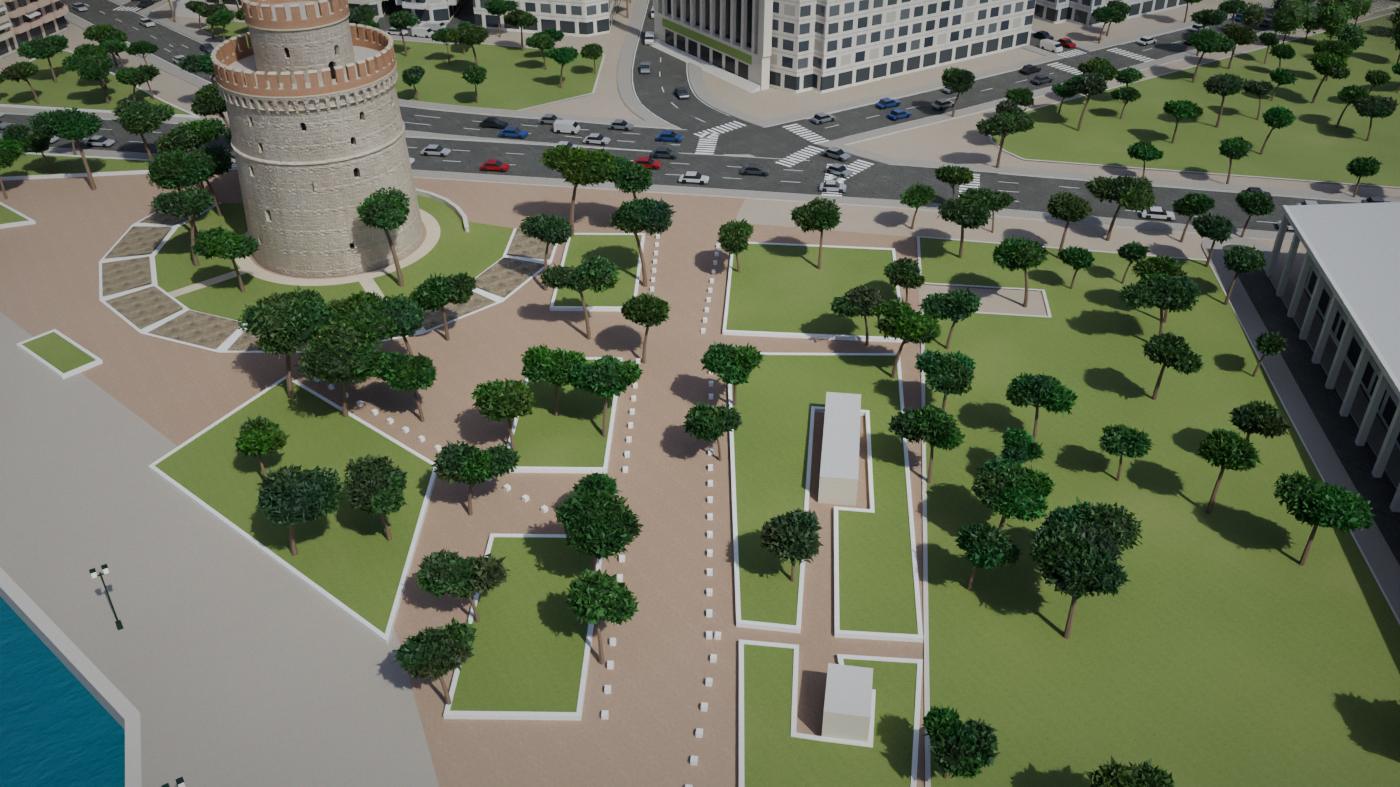
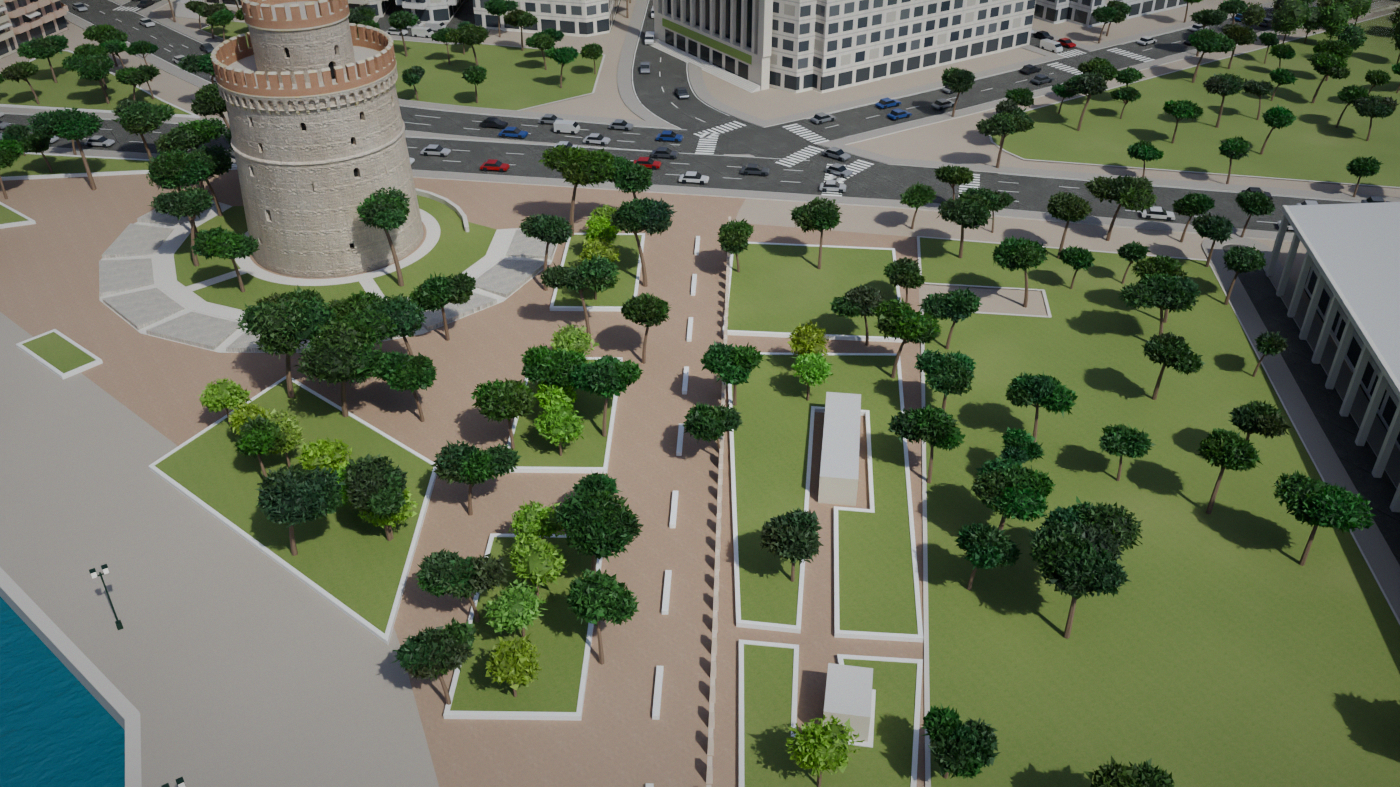
Paving: terracotta pavers round the tower, beige aggregate promenade, grey aggregate in the planter strip
Claude-Session: https://claude.ai/code/session_014yz3FUsoDRxp6xg8V729HT

diff --git a/docs/index.html b/docs/index.html
@@ -60,6 +60,7 @@ window._sun = sun; scene.add(sun, sun.target, new THREE.HemisphereLight(0xbcd6ff
 const TL = new THREE.TextureLoader(); const maxAniso = renderer.capabilities.getMaxAnisotropy();
 const tex = (f, rep, srgb = true) => { const t = TL.load(f); t.wrapS = t.wrapT = THREE.RepeatWrapping; if (rep) t.repeat.set(rep, rep); if (srgb) t.colorSpace = THREE.SRGBColorSpace; t.anisotropy = maxAniso; return t; };
 const pbr = (key, rep, color, extra = {}) => new THREE.MeshStandardMaterial({ map: tex(`tex/${key}_diff.jpg`, rep), normalMap: tex(`tex/${key}_nor.jpg`, rep, false), color, roughness: 0.92, ...extra });
+const img = (key, rep) => new THREE.MeshStandardMaterial({ map: tex(`tex/${key}.jpg`, rep), roughness: 0.92 });
 const rgb = (r, g, b) => new THREE.Color().setRGB(r, g, b);
 
 // world position for shaders that need it
@@ -104,10 +105,10 @@ async function main() {
     cap: new THREE.MeshStandardMaterial({ color: 0xa3966f, roughness: 0.95 }), dark: new THREE.MeshStandardMaterial({ color: 0x050505, roughness: 0.7 }),
     pave: new THREE.MeshStandardMaterial({ color: 0x857b6c, roughness: 0.95 }), white: new THREE.MeshStandardMaterial({ color: 0xf2f2f2, side: THREE.DoubleSide }),
     blue: new THREE.MeshStandardMaterial({ color: 0x0b3aa3, side: THREE.DoubleSide }), metal: new THREE.MeshStandardMaterial({ color: 0x222222, metalness: 0.8, roughness: 0.5 }),
-    grass: fade(pbr('grass', 0.28, rgb(0.75, 1.15, 0.5))), paving: fade(pbr('prom', 0.3, rgb(1.5, 1.36, 1.14))), cobble: fade(pbr('cobble', 0.45, rgb(1, 1, 1))),
-    asphalt: fade(pbr('asphalt', 0.2, rgb(0.75, 0.75, 0.78))), prom: fade(pbr('prom', 0.22, rgb(1.6, 1.55, 1.45))),
+    grass: fade(pbr('grass', 0.28, rgb(0.75, 1.15, 0.5))), paving: fade(img('agg_beige', 0.25)), cobble: fade(pbr('cobble', 0.45, rgb(1, 1, 1))),
+    asphalt: fade(pbr('asphalt', 0.2, rgb(0.75, 0.75, 0.78))), prom: fade(img('agg_beige', 0.25)), grey: fade(img('agg_grey', 0.25)),
     mark: fade(new THREE.MeshStandardMaterial({ color: 0xe9e9e2, roughness: 0.7 })), walk: fade(pbr('prom', 0.5, rgb(1.3, 1.3, 1.27))),
-    terra: fade(pbr('paving', 0.4, rgb(1.25, 1.0, 0.88))), dirt: fade(new THREE.MeshStandardMaterial({ color: 0xb5b0a4, roughness: 1 })), marble: new THREE.MeshStandardMaterial({ color: 0xdcdcd6, roughness: 0.6 }), stele: new THREE.MeshStandardMaterial({ color: 0xb09880, roughness: 0.95 }),
+    terra: fade(img('pav_terra', 0.5)), dirt: fade(new THREE.MeshStandardMaterial({ color: 0xb5b0a4, roughness: 1 })), marble: new THREE.MeshStandardMaterial({ color: 0xdcdcd6, roughness: 0.6 }), stele: new THREE.MeshStandardMaterial({ color: 0xb09880, roughness: 0.95 }),
     kerb: new THREE.MeshStandardMaterial({ color: 0x9d988c, roughness: 0.9 }), lamp: new THREE.MeshStandardMaterial({ color: 0x0c1f18, roughness: 0.5, metalness: 0.5 }),
     glow: new THREE.MeshStandardMaterial({ color: 0xfff3d6, emissive: 0xffe6b0, emissiveIntensity: 0.6 }),
     car: new THREE.MeshStandardMaterial({ vertexColors: true, roughness: 0.28, metalness: 0.45 }), carglass: new THREE.MeshStandardMaterial({ color: 0x06080a, roughness: 0.12 }),
@@ -115,7 +116,7 @@ async function main() {
   };
   for (const k of ['stone', 'brick', 'cap', 'dark', 'pave', 'metal', 'wall', 'roof', 'glass', 'quay', 'kerb', 'lamp', 'car', 'carglass']) M[k].side = THREE.DoubleSide;   // some faces wind inward
   M.mark.polygonOffsetFactor = -6; M.mark.polygonOffsetUnits = -6; M.walk.polygonOffsetFactor = -3; M.walk.polygonOffsetUnits = -3;
-  const noShadow = new Set(['ground', 'grass', 'paving', 'cobble', 'asphalt', 'prom', 'glow', 'mark', 'walk', 'terra', 'dirt']);
+  const noShadow = new Set(['ground', 'grass', 'paving', 'cobble', 'asphalt', 'prom', 'glow', 'mark', 'walk', 'terra', 'dirt', 'grey']);
   let done = 0; const total = man.meshes.length + 2; const tick = () => { fill.style.width = (100 * ++done / total) + '%'; };
   await Promise.all(man.meshes.map(async (r) => {
     const buf = await (await fetch(r.file)).arrayBuffer(); let o = 0; const g = new THREE.BufferGeometry();

diff --git a/stages/08_scene.py b/stages/08_scene.py
@@ -150,13 +150,14 @@ def m_site(name, kind, site):
     if kind == "grass":
         c = pbr(nt, b, "grass", pos, 0.28, bump=0.6); c = mix(nt, 0.55, c, mix(nt, noise(0.08, 3), (0.10, 0.24, 0.05), (0.22, 0.36, 0.09)))
         c = mix(nt, M(nt, "MULTIPLY", M(nt, "SUBTRACT", noise(0.05), 0.55), 1.0), c, (0.36, 0.33, 0.16))
-    elif kind == "pave": c = pbr(nt, b, "prom", pos, 0.3); c = mix(nt, 0.45, c, mix(nt, noise(0.06, 4), (0.56, 0.44, 0.33), (0.70, 0.60, 0.48)))
-    elif kind == "prom": c = pbr(nt, b, "prom", pos, 0.22); c = mix(nt, 0.35, c, mix(nt, noise(0.05, 4), (0.58, 0.54, 0.47), (0.74, 0.70, 0.62)))
+    elif kind == "pave": c = mul(nt, pbr(nt, b, "agg_beige", pos, 0.25), mix(nt, noise(0.05, 4), (0.86, 0.85, 0.83), (1.0, 1.0, 1.0)))
+    elif kind == "prom": c = mul(nt, pbr(nt, b, "agg_beige", pos, 0.25), mix(nt, noise(0.05, 4), (0.9, 0.9, 0.9), (1.06, 1.05, 1.03)))
+    elif kind == "grey": c = mul(nt, pbr(nt, b, "agg_grey", pos, 0.25), mix(nt, noise(0.05, 4), (0.88, 0.88, 0.88), (1.05, 1.05, 1.05)))
     elif kind == "cobble": c = pbr(nt, b, "cobble", pos, 0.45, bump=1.5); c = mix(nt, 0.45, c, (0.80, 0.79, 0.75))
     elif kind == "asphalt": c = pbr(nt, b, "asphalt", pos, 0.2); c = mul(nt, c, mix(nt, noise(0.1, 4), (0.55, 0.55, 0.57), (0.95, 0.95, 0.95)))
     elif kind == "walk": c = pbr(nt, b, "prom", pos, 0.5); c = mix(nt, 0.3, c, (0.60, 0.60, 0.58))
     elif kind == "mark": c = (0.82, 0.82, 0.78)
-    elif kind == "terra": c = pbr(nt, b, "paving", pos, 0.4); c = mix(nt, 0.4, c, mix(nt, noise(0.06, 4), (0.50, 0.33, 0.24), (0.62, 0.45, 0.34)))
+    elif kind == "terra": c = mul(nt, pbr(nt, b, "pav_terra", pos, 0.5), mix(nt, noise(0.07, 4), (0.84, 0.84, 0.86), (1.06, 1.03, 1.0)))
     elif kind == "dirt": c = mix(nt, noise(6.0, 3), (0.50, 0.47, 0.42), (0.72, 0.69, 0.63))
     else: c = (0.58, 0.55, 0.50)
     if isinstance(c, tuple): b.inputs["Base Color"].default_value = (*c, 1)
@@ -200,7 +201,7 @@ if not ONLY_TOWER:
     bpy.ops.mesh.primitive_plane_add(size=90000); sea = bpy.context.object; sea.name = "sea"; sea.location = (0, 0, 0.35); setm(sea, [m_water()])
     setm(load("site", smooth=False), [m_site("grass", "grass", site), m_site("paving", "pave", site), m_site("cobble", "cobble", site), m_site("asphalt", "asphalt", site),
          m_site("kerb", "kerb", site), m_site("promenade", "prom", site), m_plain("lamp", (0.03, 0.07, 0.05), 0.5, 0.6), m_glow(), m_plain("car", (0.5, 0.5, 0.5), 0.22, 0.5, attr=True),
-         m_plain("car_glass", (0.02, 0.025, 0.03), 0.1), m_plain("bark", (0.19, 0.13, 0.09), 0.9), m_leaf("pine"), m_site("marking", "mark", site), m_site("sidewalk", "walk", site), m_site("terracotta", "terra", site), m_plain("marble", (0.80, 0.80, 0.78), 0.5), m_site("dirt", "dirt", site), m_plain("stele", (0.62, 0.52, 0.42), 0.9)])
+         m_plain("car_glass", (0.02, 0.025, 0.03), 0.1), m_plain("bark", (0.19, 0.13, 0.09), 0.9), m_leaf("pine"), m_site("marking", "mark", site), m_site("sidewalk", "walk", site), m_site("terracotta", "terra", site), m_plain("marble", (0.80, 0.80, 0.78), 0.5), m_site("dirt", "dirt", site), m_plain("stele", (0.62, 0.52, 0.42), 0.9), m_site("grey_aggregate", "grey", site)])
 else:
     bpy.ops.mesh.primitive_plane_add(size=600); bpy.context.object.location = TP; setm(bpy.context.object, [m_plain("floor", (0.5, 0.5, 0.5), 0.9)])
 tw = load("tower"); tw.location = TP
@@ -216,7 +217,7 @@ wn.links.new(tcw.outputs["Generated"], mpw.inputs[0]); wn.links.new(mpw.outputs[
 skytype = "HDRI"; sc.view_layers[0].use_pass_mist = True; w.mist_settings.start = 0; w.mist_settings.depth = 30000; w.mist_settings.falloff = "LINEAR"
 # cameras
 CAMDEF = {"aerial": ((-430, -360, 250), (40, 60, 5), 35), "tower": ((-66, -58, 24), (0, 0, 16), 32), "city": ((-1500, -1700, 1150), (150, 250, 0), 32),
-          "tower_ne": ((62, 48, 30), (0, 0, 16), 32), "ref5": ((92, 70, 40), (2, 0, 17), 50), "ref1": ((27, 31, 1.7), (0, 0, 19), 22), "crown": ((-30, -18, 37), (0, 0, 27), 35), "earth": ((-185, -75, 82), (8, 12, 6), 32), "park": ((-78, -96, 58), (6, -10, 2), 30), "strip": ((-40, -150, 70), (20, -60, 0), 30), "stelae": ((-20, -118, 1.7), (22, -55, 3), 22), "slabs": ((-62, -52, 1.7), (-5, -10, 8), 22), "planters": ((-34, -108, 1.7), (-2, -20, 12), 24), "drone": ((95, -150, 62), (-12, 25, 10), 26), "plaza": ((-50, -34, 1.7), (0, 0, 15), 20), "theatre": ((35, -22, 26), (118, 30, 11), 28), "nikis": ((-150, 20, 45), (-40, 150, 12), 30), "suntest": ((0, -1, 170), (0, 0, 0), 28), "top": ((0, -1, 2600), (0, 0, 0), 28), "waterfront": ((-260, 150, 60), (-10, -10, 12), 40)}
+          "tower_ne": ((62, 48, 30), (0, 0, 16), 32), "ref5": ((92, 70, 40), (2, 0, 17), 50), "ref1": ((27, 31, 1.7), (0, 0, 19), 22), "crown": ((-30, -18, 37), (0, 0, 27), 35), "earth": ((-185, -75, 82), (8, 12, 6), 32), "park": ((-78, -96, 58), (6, -10, 2), 30), "strip": ((-40, -150, 70), (20, -60, 0), 30), "stelae": ((-20, -118, 1.7), (22, -55, 3), 22), "slabs": ((-62, -52, 1.7), (-5, -10, 8), 22), "floor": ((-48, -62, 1.7), (30, -40, 0.5), 20), "planters": ((-34, -108, 1.7), (-2, -20, 12), 24), "drone": ((95, -150, 62), (-12, 25, 10), 26), "plaza": ((-50, -34, 1.7), (0, 0, 15), 20), "theatre": ((35, -22, 26), (118, 30, 11), 28), "nikis": ((-150, 20, 45), (-40, 150, 12), 30), "suntest": ((0, -1, 170), (0, 0, 0), 28), "top": ((0, -1, 2600), (0, 0, 0), 28), "waterfront": ((-260, 150, 60), (-10, -10, 12), 40)}
 for name, (pos, tgt, lens) in CAMDEF.items():
     cd = bpy.data.cameras.new(name); cd.lens = lens; cd.clip_end = 80000; cd.clip_start = 0.5
     cam = bpy.data.objects.new("cam_" + name, cd); sc.collection.objects.link(cam)

diff --git a/stages/05c_paving.py b/stages/05c_paving.py
@@ -1,0 +1,27 @@
+"""Stage 5c: paving textures made in code, matched by eye to street-level photos of the square:
+small terracotta pavers round the tower, beige exposed-aggregate concrete on the promenade, grey aggregate in the planter strip."""
+import json, os, numpy as np
+from PIL import Image, ImageFilter
+root = os.path.dirname(os.path.dirname(os.path.abspath(__file__))); out = f"{root}/data/assets"; os.makedirs(out, exist_ok=True); N = 1024
+rng = np.random.default_rng(3)
+def speckle(amp_fine, amp_coarse):
+    fine = rng.normal(0, amp_fine, (N, N, 1)); mid = np.asarray(Image.fromarray(rng.integers(0, 255, (N // 3, N // 3), dtype=np.uint8)).resize((N, N), Image.BICUBIC), np.float32)[..., None] / 255 - 0.5
+    big = np.asarray(Image.fromarray(rng.integers(0, 255, (16, 16), dtype=np.uint8)).resize((N, N), Image.BICUBIC), np.float32)[..., None] / 255 - 0.5
+    return fine + mid * amp_coarse + big * amp_coarse * 0.6
+def save(name, a): Image.fromarray((np.clip(a, 0, 1) * 255).astype(np.uint8)).save(f"{out}/{name}.jpg", quality=90)
+def aggregate(name, base, joint):                     # tile = 4 m, one joint line on two edges
+    a = np.ones((N, N, 3)) * np.array(base) / 255 + speckle(0.035, 0.10)
+    pebbles = rng.random((N, N)) < 0.012; a[pebbles] *= rng.uniform(0.55, 1.25, (pebbles.sum(), 1))
+    a[:4, :] = np.array(joint) / 255; a[:, :4] = np.array(joint) / 255; save(name, a)
+def pavers(name, pal, joint, cols=10, rows=20):       # tile = 2 m: 20 x 10 cm pavers in running bond
+    y, x = np.mgrid[0:N, 0:N].astype(np.float32); bh = N / rows; bw = N / cols
+    r = np.floor(y / bh).astype(int); xo = x + (r % 2) * bw / 2; c = np.floor(xo / bw).astype(int) % cols
+    pick = rng.integers(0, len(pal), (rows, cols)); shade = rng.uniform(0.9, 1.08, (rows, cols))
+    a = np.array(pal, np.float32)[pick[r, c]] / 255 * shade[r, c][..., None] + speckle(0.03, 0.06)
+    fy = y / bh - np.floor(y / bh); fx = xo / bw - np.floor(xo / bw); j = (fy < 2.2 / bh) | (fx < 2.2 / bw)
+    a[j] = np.array(joint) / 255; save(name, a)
+aggregate("agg_beige", (203, 189, 160), (176, 150, 96)); aggregate("agg_grey", (168, 166, 158), (120, 118, 112))
+pavers("pav_terra", [(172, 124, 100), (162, 114, 92), (184, 138, 112), (150, 110, 94), (166, 132, 116), (176, 118, 92), (158, 122, 104)], (112, 94, 82))
+man = json.load(open(f"{out}/assets.json"))
+for k in ("agg_beige", "agg_grey", "pav_terra"): man[k] = {"diff": f"data/assets/{k}.jpg"}
+json.dump(man, open(f"{out}/assets.json", "w"), indent=1); print("paving textures ok")

diff --git a/stages/10_web.py b/stages/10_web.py
@@ -25,7 +25,7 @@ export("quay", "quay", {0: ("quay", False, False)})
 export("bld", "buildings", {0: ("wall", True, True), 1: ("roof", False, True), 2: ("plain", False, True), 3: ("glass", False, True)})
 export("tower", "tower", {0: ("stone", True, False), 1: ("dark", False, False), 2: ("pave", False, False), 3: ("white", False, False), 4: ("blue", False, False), 5: ("metal", False, False), 6: ("brick", True, False), 7: ("cap", False, False)}, offset=T)
 export("site", "site", {0: ("grass", True, False), 1: ("paving", True, False), 2: ("cobble", True, False), 3: ("asphalt", True, False), 4: ("kerb", False, False), 5: ("prom", True, False),
-                        6: ("lamp", False, False), 7: ("glow", False, False), 8: ("car", False, True), 9: ("carglass", False, False), 10: ("bark", False, False), 12: ("mark", False, False), 13: ("walk", True, False), 14: ("terra", True, False), 15: ("marble", False, False), 16: ("dirt", False, False), 17: ("stele", False, False)}, drop=(11,))
+                        6: ("lamp", False, False), 7: ("glow", False, False), 8: ("car", False, True), 9: ("carglass", False, False), 10: ("bark", False, False), 12: ("mark", False, False), 13: ("walk", True, False), 14: ("terra", True, False), 15: ("marble", False, False), 16: ("dirt", False, False), 17: ("stele", False, False), 18: ("grey", True, False)}, drop=(11,))
 W = json.load(open(f"{root}/data/web_trees.json"))
 np.array(W["trees"], np.float32).tofile(f"{out}/data/trees.bin"); np.array(W["clumps"], np.float32).tofile(f"{out}/data/clumps.bin")
 man["trees"] = {"file": "data/trees.bin", "count": len(W["trees"]), "stride": 8}; man["clumps"] = {"file": "data/clumps.bin", "count": len(W["clumps"]), "stride": 8}
@@ -36,5 +36,6 @@ A = json.load(open(f"{root}/data/assets/assets.json"))
 for key in ("stone", "brick", "paving", "prom", "cobble", "grass", "asphalt"):
     for kind in ("diff", "nor"):
         Image.open(f"{root}/{A[key][kind]}").convert("RGB").resize((1024, 1024), Image.LANCZOS).save(f"{out}/tex/{key}_{kind}.jpg", quality=82)
+for key in ("agg_beige", "agg_grey", "pav_terra"): Image.open(f"{root}/{A[key]['diff']}").convert("RGB").save(f"{out}/tex/{key}.jpg", quality=85)
 json.dump(man, open(f"{out}/data/manifest.json", "w"), indent=1)
 tot = sum(os.path.getsize(os.path.join(dp, f)) for dp, _, fs in os.walk(out) for f in fs); print("docs total MB", round(tot / 1e6, 1))

diff --git a/stages/06_geometry.py b/stages/06_geometry.py
@@ -291,7 +291,7 @@ tm.save("trees"); print("trees", len(spots))
 
 # ================= the tower's surroundings (within 260 m) =================
 RS = 260.0; disc = Point(TX, TY).buffer(RS, 64); land = disc.difference(sea); S = Mesh()
-GRASS, PAVE, COBBLE, ASPHALT, CURB, PROM, LAMP, GLOW, CAR, CARGLASS, BARK, PINE, MARK, WALK, TERRA, MARBLE, DIRT, STELE = range(18)
+GRASS, PAVE, COBBLE, ASPHALT, CURB, PROM, LAMP, GLOW, CAR, CARGLASS, BARK, PINE, MARK, WALK, TERRA, MARBLE, DIRT, STELE, GREY = range(19)
 def flat(poly, z, mat, col=(1, 1, 1)):
     for pp in (poly.geoms if hasattr(poly, "geoms") else [poly]):
         if pp.geom_type == "Polygon" and pp.area > 0.3:
@@ -315,8 +315,11 @@ walk = drive.buffer(2.6, join_style=1).difference(drive).intersection(land).diff
 grass = unary_union(greens).intersection(land).difference(drive.buffer(2.6)).difference(lawn.buffer(8))
 prom = sea.buffer(21).intersection(land).difference(grass).difference(drive)
 terra = plaza.intersection(land).difference(prom).difference(drive.buffer(2.6)) if not plaza.is_empty else Polygon()
+SP0 = np.array([TX + 47, TY - 27]); SP1 = np.array([TX - 15, TY - 113]); _s = (SP1 - SP0) / np.linalg.norm(SP1 - SP0); _w = np.array([_s[1], -_s[0]])   # the stelae line and the direction of the walk beside it
+strip = Polygon([SP0 - _w * 3, SP1 - _w * 3, SP1 + _w * 34, SP0 + _w * 34]).intersection(land).difference(prom).difference(drive.buffer(2.6)); terra = terra.difference(strip)
 flat(land.difference(bu.buffer(0.2)), 0.02, PAVE)
 flat(terra, 0.03, TERRA)
+flat(strip, 0.035, GREY)
 flat(prom, 0.04, PROM)
 flat(sea.buffer(1.1).intersection(land), 0.05, CURB)                                              # stone coping along the quay
 flat(drive, 0.06, ASPHALT)
